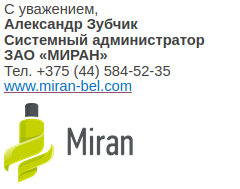
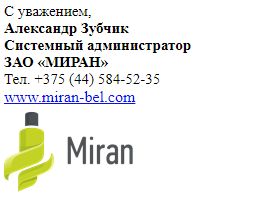
create signs final change

Changed region(s): [[0.0, 0.0, 0.875, 0.9788], [0.2625, 0.6614, 0.5542, 0.8201]]

diff --git a/miran/static/files/example_2.html b/miran/static/files/example_2.html
@@ -1,37 +1,39 @@
 <html>
-  <head>
+<head>
     <meta http-equiv="Content-Type" content="text/html; charset=UTF-8">
-  </head>
-  <body>
-    <table class="MsoNormalTable" style="margin-left:5.4pt;border-collapse:collapse" cellspacing="0" cellpadding="0" border="0">
-      <tbody>
-        <tr style="height:73.2pt">
-          <td style="width:191.0pt;padding:0cm 5.4pt 0cm 5.4pt;height:73.2pt" width="255" valign="top">
-			<span style="font-size:11.0pt;font-family:&quot;Calibri&quot;,&quot;sans-serif&quot;;color:#404040">
-				С уважением,<br>
-				<b>fio<br>
-					role<br>
-				ЗАО "МИРАН"<br></b>
-				 tel_1<br>
-				 tel_2<br>
-				<a href="http://www.miran-bel.com/" moz-do-not-send="true" style="color:#0070C0"><span style="font-family:&quot;Times New Roman&quot;,serif;mso-fareast-language:RU">www.miran-bel.com</span></a>
-			</span>
-			<p class="MsoNormal" style="line-height:105%; margin-top: 5px; margin-bottom: 0;">
-				<span style="mso-fareast-language:RU">
-					<img style="width:1.375in;height:.9479in" 
-						id="Рисунок_x0020_8"
[1 lines of base64/hex data omitted]
-				  class="" width="132" height="91" border="0">
-				</span>
-			</p>
-			<div class="MsoNormal" style="line-height:105%; margin-top: -5px;">
[3 lines of base64/hex data omitted]
-		</div>
-          </td>
-        </tr>
-      </tbody>
-    </table>
-  </body>
+    <style>
+        p {
+            margin-top: 0px;
+            margin-bottom: 0px;
+            font-family: 'Times New Roman', Times, serif;
+            font-size: 15px;
+        }
+
+    </style>
+</head>
+<body>
+<div>
+    <p>С уважением,</p>
+    <p><b>fio</b></p>
+    <p><b>role</b></p>
+    <p><b>ЗАО «МИРАН»</b></p>
+    <p>tel_1</p>
+    <!-- Добавляем телефон если необходимо -->
+    <p>tel_2</p>
+    <a href="http://www.miran-bel.com/">www.miran-bel.com</a>
+    <p style="margin-top: 5px;">
[1 lines of base64/hex data omitted]
+    </p>
+    <p style="margin-top: -3px;">
+        <a href="https://www.youtube.com/channel/UC9Fme9Vcdy0lDHWdMdHu0MQ/featured"
+           moz-do-not-send="true" target="_blank"><img
[1 lines of base64/hex data omitted]
+        <a href="https://vk.com/miran_bel" moz-do-not-send="true" target="_blank"><img
[1 lines of base64/hex data omitted]
+        <a href="https://www.pinterest.com/miran0934/pins/" moz-do-not-send="true"
+           target="_blank"><img
[1 lines of base64/hex data omitted]
+    </p>
+</div>
+</body>
 </html>

diff --git a/miran/static/files/example_1.html b/miran/static/files/example_1.html
@@ -1,42 +1,29 @@
 <!DOCTYPE html>
 <html>
-  <body vlink="#954F72" link="#0563C1" lang="RU">
-    <div class="moz-forward-container">
-      <style>@font-face {font-family:"Cambria Math";
-	panose-1:2 4 5 3 5 4 6 3 2 4;}@font-face
-	{font-family:Calibri;
-	panose-1:2 15 5 2 2 2 4 3 2 4;}p.MsoNormal, li.MsoNormal, div.MsoNormal
-	{margin:0cm;
-	margin-bottom:.0001pt;
-	font-size:11.0pt;
-	font-family:"Calibri",sans-serif;
-	mso-fareast-language:EN-US;}span.EmailStyle17
-	{mso-style-type:personal-compose;
-	font-family:"Calibri",sans-serif;
-	color:windowtext;}.MsoChpDefault
-	{mso-style-type:export-only;
-	font-family:"Calibri",sans-serif;
-	mso-fareast-language:EN-US;}div.WordSection1
-	{page:WordSection1;}</style>
-      <div class="WordSection1">
-        <p class="MsoNormal" style="line-height:105%"><span style="color:#404040;mso-fareast-language:RU">С уважением,<o:p></o:p></span></p>
-        <p class="MsoNormal" style="line-height:105%"><b><span style="color:#404040;mso-fareast-language:RU">fio<o:p></o:p></span></b></p>
-        <p class="MsoNormal" style="line-height:105%"><b><span style="color:#404040;mso-fareast-language:RU">role<o:p></o:p></span></b></p>
-        <p class="MsoNormal" style="line-height:105%"><b><span style="color:#404040;mso-fareast-language:RU">ЗАО «МИРАН»<o:p></o:p></span></b></p>
-        <p class="MsoNormal" style="line-height:105%"><span style="color:#404040;mso-fareast-language:RU">tel_1</span></p>
-        <p class="MsoNormal" style="line-height:105%"><span style="color:#404040;mso-fareast-language:RU">tel_2</span></p>
-        <p class="MsoNormal" style="line-height:105%">
-			<a href="http://www.miran-bel.com/" moz-do-not-send="true"><span style="color:#0070C0">www.miran-bel.com</span></a>
-		</p>
-	<p></p>
-        <p class="MsoNormal" style="line-height:105%; margin-top: -8px;">
-			<span style="mso-fareast-language:RU">
-				<img style="width:1.375in;height:.9479in" id="Рисунок_x0020_8"
[1 lines of base64/hex data omitted]
-              class="" width="132" height="91" border="0">
-			</span>
-		</p>
-      </div>
-    </div>
-  </body>
+<head>
+    <meta http-equiv="Content-Type" content="text/html; charset=UTF-8">
+    <style>
+        p {
+            margin-top: 0px;
+            margin-bottom: 0px;
+            font-family: 'Times New Roman', Times, serif;
+            font-size: 15px;
+        }
+
+    </style>
+</head>
+<body>
+<div>
+    <p>С уважением,</p>
+    <p><b>fio</b></p>
+    <p><b>role</b></p>
+    <p><b>ЗАО «МИРАН»</b></p>
+    <p>tel_1</p>
+    <p>tel_2</p>
+    <a href="http://www.miran-bel.com/">www.miran-bel.com</a>
+    <p style="margin-top: 5px;">
[1 lines of base64/hex data omitted]
+    </p>
+</div>
+</body>
 </html>

diff --git a/miran/signs/templates/signs/create_sign.html b/miran/signs/templates/signs/create_sign.html
@@ -15,7 +15,8 @@
             <div class="card-body">
                 <form action="{% url 'signs:create_sign' %}" method="post">
                     {% csrf_token %}
-                    <div class="row my-2 sign">
+                    <p class="my-1" >Выберите одну из двух подписей</p>
+                    <div class="row my-2 ">
                         <div class="col-2 d-flex align-items-center justify-content-center ">
                             <div class="form-check">
                                 <input class="form-check-input" type="radio" name="sign" id="sign1"
@@ -29,7 +30,7 @@
                             <img src="{% static 'img/first.png' %}">
                         </div>
                     </div>
-                    <div class="row my-2 sign">
+                    <div class="row my-2 ">
                         <div class="col-2 d-flex align-items-center justify-content-center">
                             <div class="form-check">
                                 <input class="form-check-input" type="radio" name="sign" id="sign2"
@@ -45,7 +46,7 @@
                     </div>
                     <div class="mb-3">
                         <label for="{{ form.fio.id_for_label }}"
-                               class="form-label" > ФИО <span
+                               class="form-label" > Имя Фамилия <span
                                 class="text-danger"><b>*</b></span></label>
                         {{ form.fio }}
                         {% for error in form.fio.errors %}
@@ -91,7 +92,6 @@
         </div>
     </div>
 </div>
-
 {% endblock %}
 
 

diff --git a/miran/books/templates/books/book_list_card.html b/miran/books/templates/books/book_list_card.html
@@ -12,13 +12,13 @@
 <div class="container-xl position-relative">
     <div class="row">
         <div class="col-6 text-start pe-4">
-            {% if request.user.is_staff %}
-                        <a id="toggleLink"  onclick="toggle_search()" href="#">Показать фильтр
-                            поиска</a>
-            {% endif %}
+            <a id="toggleLink"  onclick="toggle_search()" href="#">Показать фильтр поиска</a>
+
         </div>
         <div class="col-6 text-end pe-4">
+            {% if request.user.is_staff %}
             <a id="" onclick="" href="{% url 'books:print_qr' %}">Распечатать QR</a>
+            {% endif %}
         </div>
     </div>
 </div>
@@ -106,7 +106,7 @@
 <div class="card-group">
     <div class="row row-cols-1 row-cols-md-2 row-cols-lg-3">
     {% for book in books%}
-        <div class="card card-book">
+        <div class="card card-book p-2">
             <div class="card-image">
                 <img src="/media/{{ book.label }}"
                  class="card-img-top w-50"

diff --git a/miran/static/css/main.css b/miran/static/css/main.css
@@ -71,13 +71,13 @@ main {
 }
 
 .card-book {
-    background-color: #fcfdfc;
+    background-color: #ffffff;
     border-radius: 0;
-    border: 1px solid #f80707;
+    /*border: 1px solid #f80707;*/
 }
 
 .card-book:hover {
-    border: 1px solid #a8a5a5;
+    border: 1px solid #6e6b6b;
     box-shadow: 0 0 12px rgba(196, 209, 38, 0.1);
 }
 
